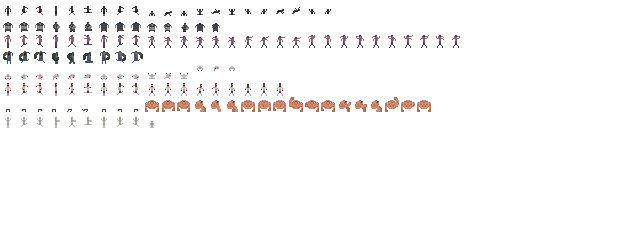
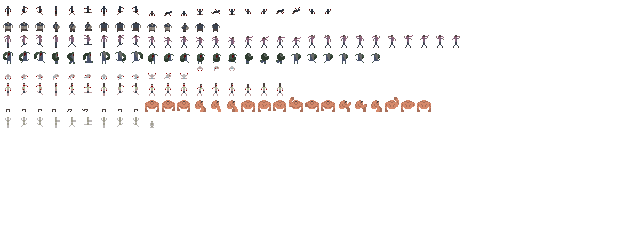
base charger functionality

Changed region(s): [[0.2188, 0.2042, 0.5938, 0.2625]]

diff --git a/h4d2/Entities/Mobs/Zombies/Specials/Charger.cs b/h4d2/Entities/Mobs/Zombies/Specials/Charger.cs
@@ -1,13 +1,226 @@
-using H4D2.Infrastructure;
+using H4D2.Entities.Mobs.Survivors;
+using H4D2.Infrastructure;
 using H4D2.Levels;
 
 namespace H4D2.Entities.Mobs.Zombies.Specials;
 
 public class Charger : Special
 {
+    private const int _chargingFramesOffset = 9;
+    private const double _chargeCooldown = 1.0;
+    private const double _chargeRange = 50.0;
+    private const double _maxChargeTime = 3.0;
+    private const double _defaultSpeed = 250;
+    private const double _chargeSpeed = 500;
+    private const double _slamDelay = 1.5;
+    
+    private bool _isCharging;
+    private bool _isSlamming;
+    private readonly CountdownTimer _chargeTimer;
+    private readonly CountdownTimer _chargeCooldownTimer;
+    private readonly CountdownTimer _slamTimer;
+    private Survivor? _pinTarget;
+    private readonly HashSet<Survivor> _alreadyKnockbacked;
+    
     public Charger(Level level, Position position) 
         : base(level, position, SpecialConfigs.Charger)
     {
+        _isCharging = false;
+        _isSlamming = false;
+        _chargeTimer = new CountdownTimer(_maxChargeTime);
+        _chargeCooldownTimer = new CountdownTimer(_chargeCooldown);
+        _chargeCooldownTimer.Update(_chargeCooldown);
+        _slamTimer = new CountdownTimer(_slamDelay);
+        _pinTarget = null;
+        _alreadyKnockbacked = new HashSet<Survivor>();
+    }
+
+    protected override void _UpdateAttackState(double elapsedTime)
+    {
+        if (_isCharging)
+        {
+            _UpdateChargeState(elapsedTime);
+            return;
+        }
         
+        if (_isSlamming)
+        {
+            _UpdateSlamState(elapsedTime);
+            return;
+        }
+
+        if (_target == null || _target.Removed || _target is not Survivor survivor)
+            return;
+        
+        ReadonlyPosition targetPosition = survivor.CenterMass;
+        ReadonlyPosition zombiePosition = CenterMass;
+        double distance = ReadonlyPosition.Distance(targetPosition, zombiePosition);
+        
+        if (distance > _chargeRange || !survivor.IsOnGround || survivor.IsPinned)
+            return;
+        
+        _directionRadians = Math.Atan2(targetPosition.Y - zombiePosition.Y, targetPosition.X - zombiePosition.X);
+        _directionRadians = MathHelpers.NormalizeRadians(_directionRadians);
+
+        _chargeCooldownTimer.Update(elapsedTime);
+        if (_chargeCooldownTimer.IsFinished)
+        {
+            _Charge();
+            _chargeCooldownTimer.Reset();
+        }
+    }
+
+    private void _UpdateChargeState(double elapsedTime)
+    {
+        _chargeTimer.Update(elapsedTime);
+        if (_chargeTimer.IsFinished)
+        {
+            _StopCharging(_pinTarget);
+            _chargeTimer.Reset();
+        }
+    }
+    
+    private void _UpdateSlamState(double elapsedTime)
+    {
+        if (_pinTarget == null || _pinTarget.Removed)
+        {
+            _isSlamming = false;
+            _pinTarget = null;
+            _collisionExcludedEntity = null;
+            _chargeCooldownTimer.Reset();
+            return;   
+        }
+        
+        _slamTimer.Update(elapsedTime);
+        if (_slamTimer.IsFinished)
+        {
+            _pinTarget.HitBy(this);
+            _slamTimer.Reset();
+        }
+    }
+    
+    protected override void _UpdatePosition(double elapsedTime)
+    {
+        if (_isSlamming)
+        {
+            _velocity.Stop();
+            return;
+        }
+        
+        _velocity.X *= 0.5;
+        _velocity.Y *= 0.5;
+
+        if (!_isCharging)
+        {
+            double targetDirection = _target == null ? 
+                _directionRadians : 
+                Math.Atan2(_target.CenterMass.Y - CenterMass.Y, _target.CenterMass.X - CenterMass.X);
+            double directionDiff = targetDirection - _directionRadians;
+            directionDiff = Math.Atan2(Math.Sin(directionDiff), Math.Cos(directionDiff));
+            _directionRadians += directionDiff * (elapsedTime * _turnSpeed);
+            _directionRadians = MathHelpers.NormalizeRadians(_directionRadians);
+        }
+        
+        double moveSpeed = (_speed * _speedFactor) * elapsedTime;
+        _velocity.X += Math.Cos(_directionRadians) * moveSpeed;
+        _velocity.Y += Math.Sin(_directionRadians) * moveSpeed;
+
+        _AttemptMove();
+    }
+    
+    protected override void _UpdateSprite(double elapsedTime)
+    {
+        if (_isCharging)
+            _UpdateChargeSprite(elapsedTime);
+        else if (_isSlamming)
+            _UpdateSlamSprite(elapsedTime);
+        else
+            base._UpdateSprite(elapsedTime);
+    }
+
+    private void _UpdateChargeSprite(double elapsedTime)
+    {
+        _frameUpdateTimer.Update(elapsedTime);
+        
+        SpriteDirection spriteDirection = Direction.Intercardinal(_directionRadians);
+        _xFlip = spriteDirection.XFlip;
+        
+        while (_frameUpdateTimer.IsFinished)
+        {
+            _walkStep = (_walkStep + 1) % 4;
+            int nextFrame = 0;
+            nextFrame = _walkStep switch
+            {
+                0 or 2 => 0 + _chargingFramesOffset + (3 * spriteDirection.Offset),
+                1 => 1 + _chargingFramesOffset +  (3 * spriteDirection.Offset),
+                3 => 2 + _chargingFramesOffset +  (3 * spriteDirection.Offset),
+                _ => nextFrame
+            };
+            _frame = nextFrame;
+            _frameUpdateTimer.AddDuration();
+        }
+    }
+
+    private void _UpdateSlamSprite(double elapsedTime)
+    {
+        
+    }
+
+    private void _Charge()
+    {
+        _isCharging = true;
+        _speed = _chargeSpeed;
+    }
+
+    private void _StopCharging(Survivor? pinTarget = null)
+    {
+        _isCharging = false;
+        _isSlamming = pinTarget != null;
+        _speed = _defaultSpeed;
+        _alreadyKnockbacked.Clear();
+        _chargeTimer.Reset();
+    }
+    
+    protected override void _Collide(Entity? entity)
+    {
+        if (!_isCharging)
+        {
+            base._Collide(entity);
+            return;
+        }
+
+        if (entity == null)
+        {
+            _pinTarget?.HitBy(this);
+            _StopCharging(_pinTarget);
+            // add stumble knockback here
+            base._Collide(entity); // temporary
+            return;
+        }
+
+        if (_pinTarget == null && entity is Survivor survivor)
+        {
+            _Pin(survivor);
+            return;
+        }
+
+        if (_pinTarget != null && entity is Survivor survivor2 && !_alreadyKnockbacked.Contains(survivor2))
+        {
+            survivor2.KnockbackHitBy(this);
+            _alreadyKnockbacked.Add(survivor2);
+        }
+    }
+    
+    private void _Pin(Survivor survivor)
+    {
+        _pinTarget = survivor;
+        _collisionExcludedEntity = survivor;
+        survivor.Pinned(this);
+    }
+
+    protected override void _Die()
+    {
+        base._Die();
+        _pinTarget?.Cleared();
     }
 }

diff --git a/h4d2/Entities/Mobs/Survivors/Survivor.cs b/h4d2/Entities/Mobs/Survivors/Survivor.cs
@@ -261,8 +261,8 @@ public abstract class Survivor : Mob
     {
         if (IsPinned)
         {
-            if (_pinner is Jockey jockey)
-                _UpdateJockeyedPosition(jockey);
+            if (_pinner is Jockey or Charger)
+                _BindPositionToSpecial(_pinner);
             else if(_pinner is Smoker smoker)
                 _UpdateSmokedPosition(smoker);
             return;
@@ -290,11 +290,11 @@ public abstract class Survivor : Mob
         _AttemptMove();
     }
 
-    private void _UpdateJockeyedPosition(Jockey jockey)
+    private void _BindPositionToSpecial(Special special)
     {
-        _directionRadians = jockey.DirectionRadians;
-        _position.X = jockey.Position.X;
-        _position.Y = jockey.Position.Y;
+        _directionRadians = special.DirectionRadians;
+        _position.X = special.Position.X;
+        _position.Y = special.Position.Y;
     }
 
     private void _UpdateSmokedPosition(Smoker smoker)

diff --git a/h4d2/Levels/Level.cs b/h4d2/Levels/Level.cs
@@ -17,7 +17,7 @@ namespace H4D2.Levels;
 
 public class Level
 {
-    public const int Padding = 32;
+    public const int Padding = 0;
     private const double _levelResetCooldownSeconds = 8.0;
     private const int _minZombies = 20;
     private const int _minSpawnWaveSize = 5;
@@ -50,7 +50,7 @@ public class Level
         _entities.Add(new Francis(this, new Position(150, 150)));
         _entities.Add(new Louis(this, new Position(150, 150)));
         _entities.Add(new Zoey(this, new Position(150, 150)));
-        _entities.Add(new Smoker(this, new Position(40, 40)));
+        _entities.Add(new Charger(this, new Position(40, 40)));
     }
     
     public Entity? GetFirstCollidingEntity(Entity e1, ReadonlyPosition position, Entity? exclude)

diff --git a/h4d2/Entities/Mobs/Zombies/Specials/Special.cs b/h4d2/Entities/Mobs/Zombies/Specials/Special.cs
@@ -25,10 +25,7 @@ public abstract class Special : Zombie
         _UpdateSprite(elapsedTime);
     }
 
-    protected virtual void _UpdateAttackState(double elapsedTime)
-    {
-        
-    }
+    protected abstract void _UpdateAttackState(double elapsedTime);
     
     protected virtual void _UpdateTarget()
     {
